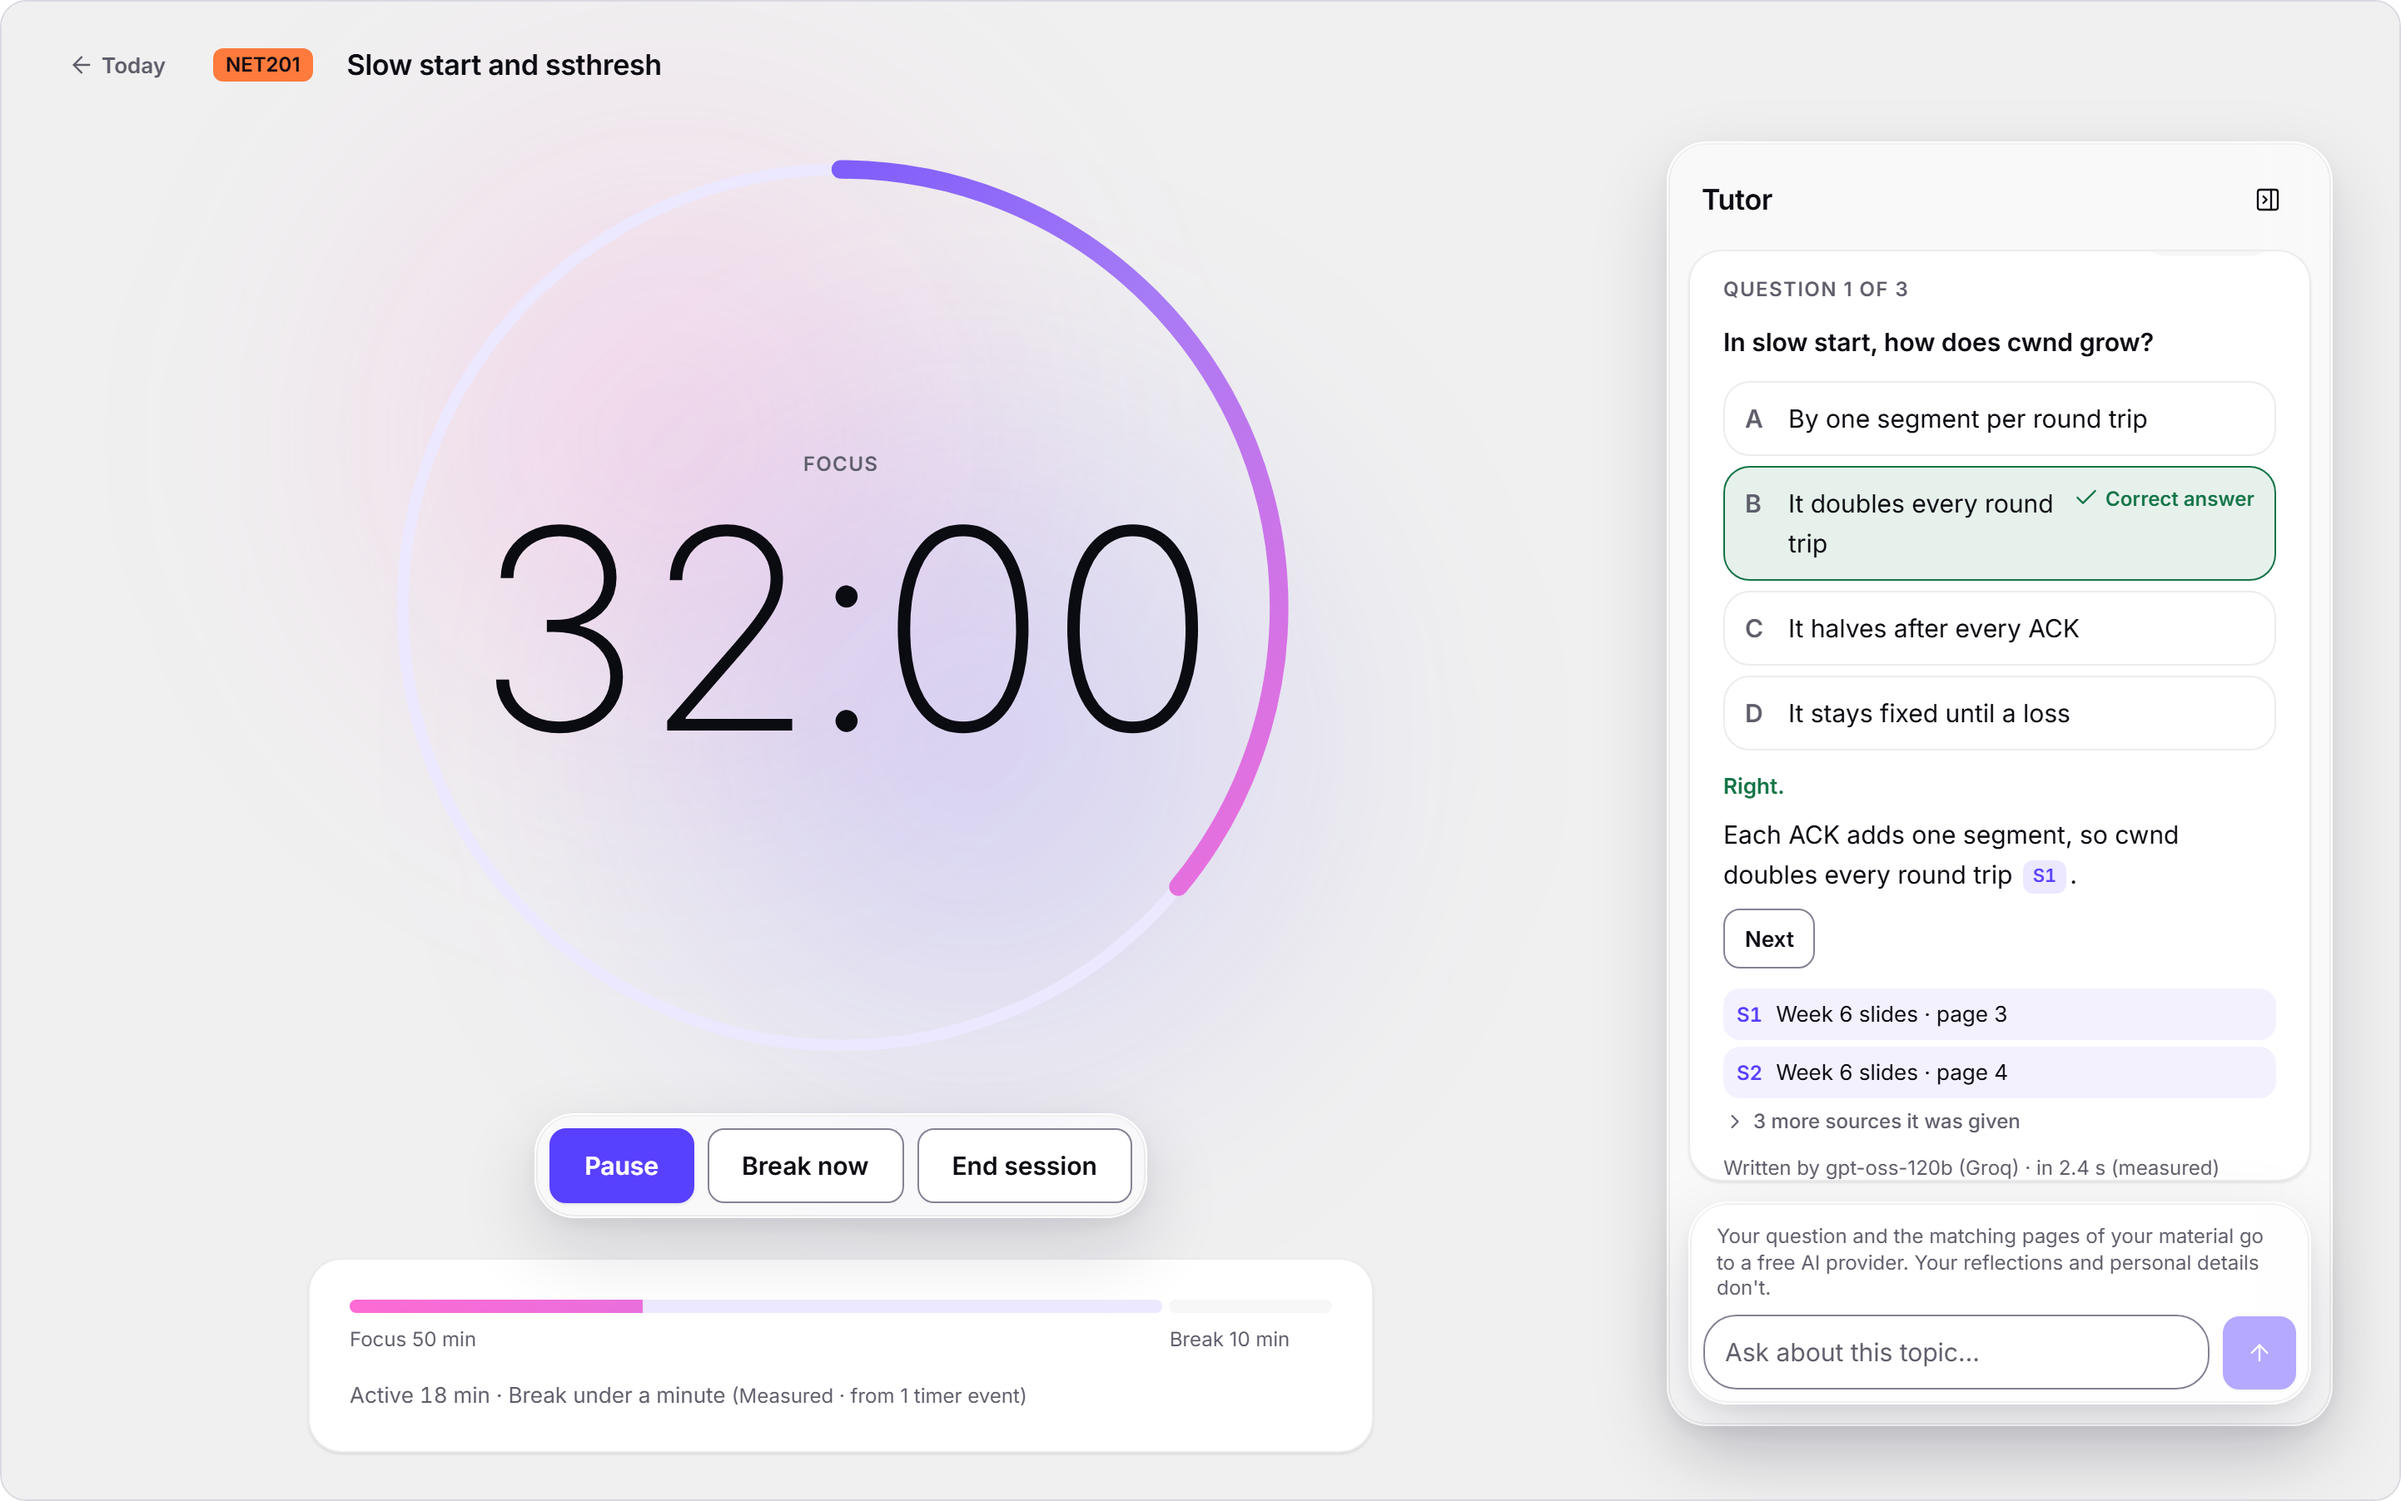
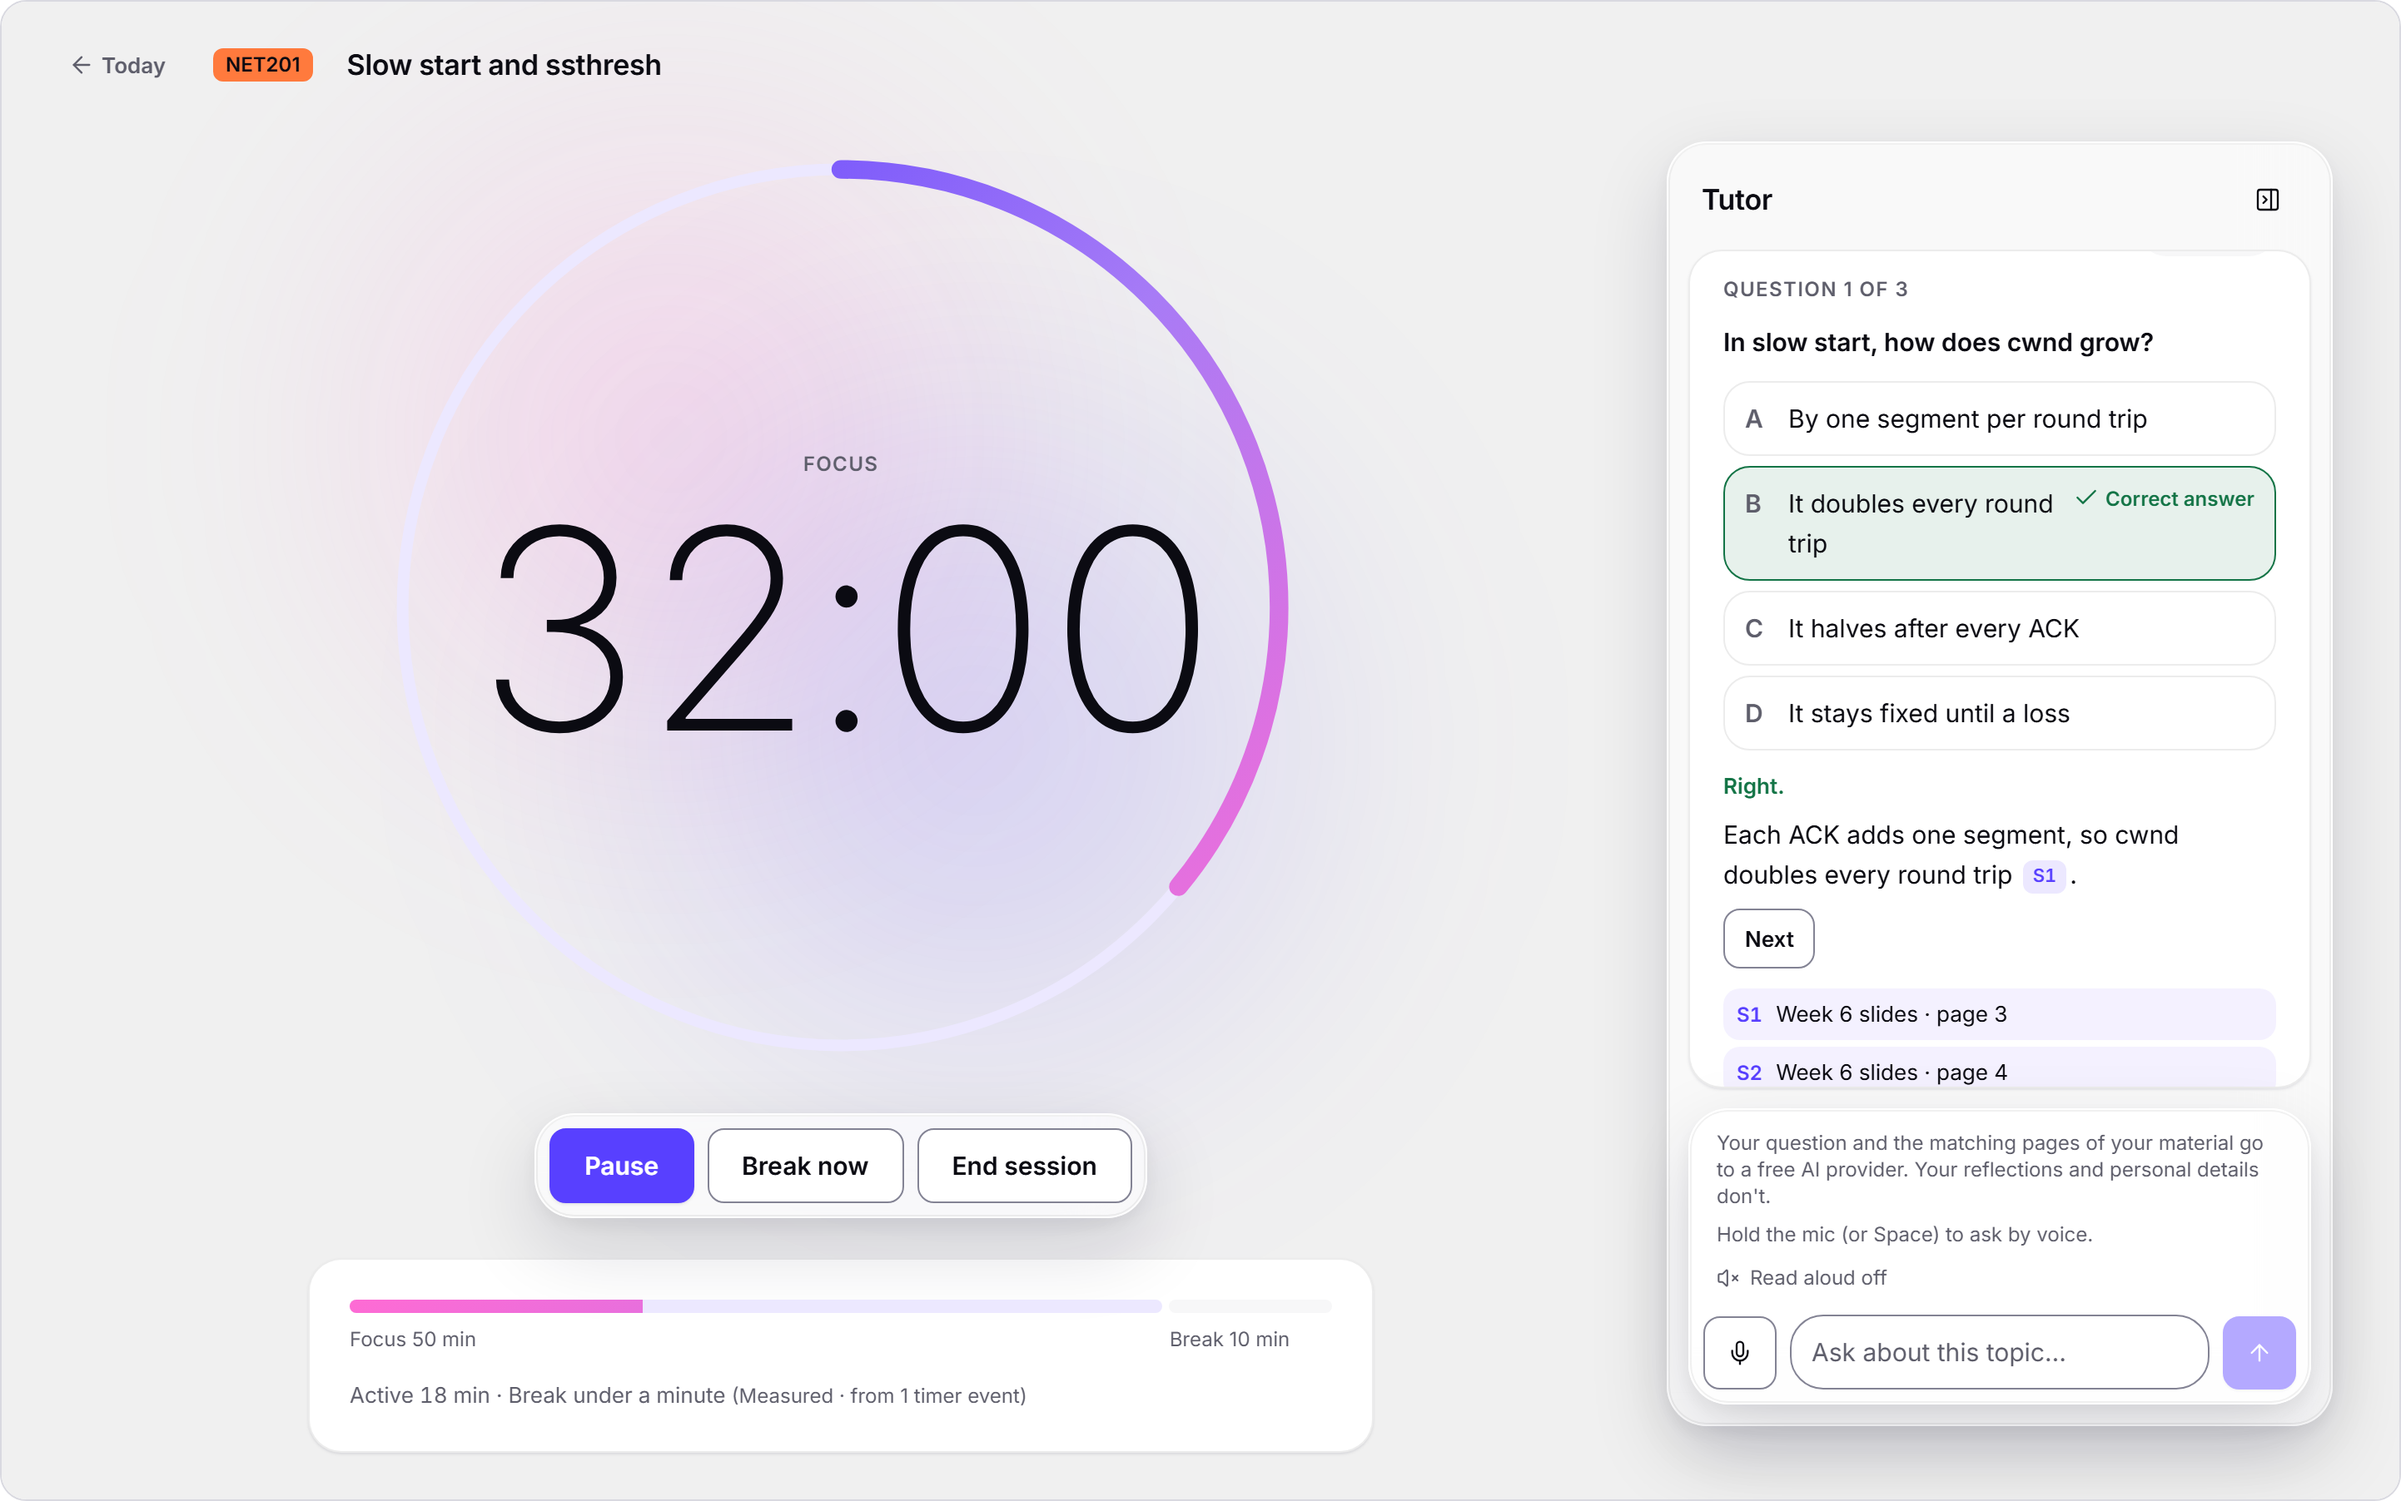
test(e2e): hide speech recognition from specs that don't test voice (headless Chromium crashes on available()); fake speech in screenshots
- e2e/base.ts: Playwright's test with fixtures/no-speech.js on every page; voice.spec.ts
  keeps its own fakes.
- session.spec gets 60 s: about 22 s in CI, but at the 30 s default on a busy laptop.
- Screenshots inject the voice spec's fakes, so the tutor shows its mic and Read aloud.

Changed region(s): [[0.7178, 0.745, 0.9362, 0.9313]]

diff --git a/apps/web/e2e/base.ts b/apps/web/e2e/base.ts
@@ -1,0 +1,18 @@
+import path from "node:path";
+
+import { test as base } from "@playwright/test";
+
+export { expect } from "@playwright/test";
+export type { APIRequestContext, Page, Route } from "@playwright/test";
+
+/**
+ * Playwright's `test`, with the browser's speech recognition hidden on every page (see
+ * fixtures/no-speech.js: headless Chromium crashes on it). voice.spec.ts uses the plain
+ * `test` and injects its own fakes instead.
+ */
+export const test = base.extend({
+  page: async ({ page }, provide) => {
+    await page.addInitScript({ path: path.resolve(import.meta.dirname, "fixtures/no-speech.js") });
+    await provide(page);
+  },
+});

diff --git a/apps/web/e2e/fixtures/no-speech.js b/apps/web/e2e/fixtures/no-speech.js
@@ -1,0 +1,10 @@
+// Injected into every e2e page except voice.spec.ts (which brings its own fakes), through
+// e2e/test.ts. Headless Chromium's renderer crashes when SpeechRecognition.available() is
+// called (seen 19 Nov 2026 with Chromium 158; headed Chromium answers "downloadable"), and
+// the session screen asks it as soon as the tutor dock mounts. Without the API the tutor
+// shows that voice is off, as in Firefox. Nothing here is part of the app.
+(() => {
+  for (const name of ["SpeechRecognition", "webkitSpeechRecognition"]) {
+    Object.defineProperty(window, name, { value: undefined, configurable: true });
+  }
+})();

diff --git a/apps/web/e2e/session.spec.ts b/apps/web/e2e/session.spec.ts
@@ -1,4 +1,4 @@
-import { expect, test, type Page } from "@playwright/test";
+import { expect, test, type Page } from "./base";
 
 import { uniqueCode } from "./env";
 
@@ -14,6 +14,8 @@ test("start → pause → resume → reload → break → end → reflect → su
   page,
   request,
 }, testInfo) => {
+  // About 22 s in CI, but close to the 30 s default on a busy Windows laptop.
+  test.setTimeout(60_000);
   // A module with a topic, made through the real API.
   const module = await (
     await request.post("/api/modules", {

diff --git a/apps/web/e2e/tutor.spec.ts b/apps/web/e2e/tutor.spec.ts
@@ -1,7 +1,7 @@
 import { readFileSync } from "node:fs";
 import path from "node:path";
 
-import { expect, test, type APIRequestContext, type Page } from "@playwright/test";
+import { expect, test, type APIRequestContext, type Page } from "./base";
 
 import { uniqueCode } from "./env";
 import { startWorker, stopWorker } from "./worker";

diff --git a/apps/web/e2e/tutor-modes.spec.ts b/apps/web/e2e/tutor-modes.spec.ts
@@ -1,7 +1,7 @@
 import { readFileSync } from "node:fs";
 import path from "node:path";
 
-import { expect, test, type Page, type Route } from "@playwright/test";
+import { expect, test, type Page, type Route } from "./base";
 
 import { uniqueCode } from "./env";
 

diff --git a/apps/web/e2e/materials.spec.ts b/apps/web/e2e/materials.spec.ts
@@ -1,6 +1,6 @@
 import path from "node:path";
 
-import { expect, test } from "@playwright/test";
+import { expect, test } from "./base";
 
 import { uniqueCode } from "./env";
 import { startWorker, stopWorker } from "./worker";
